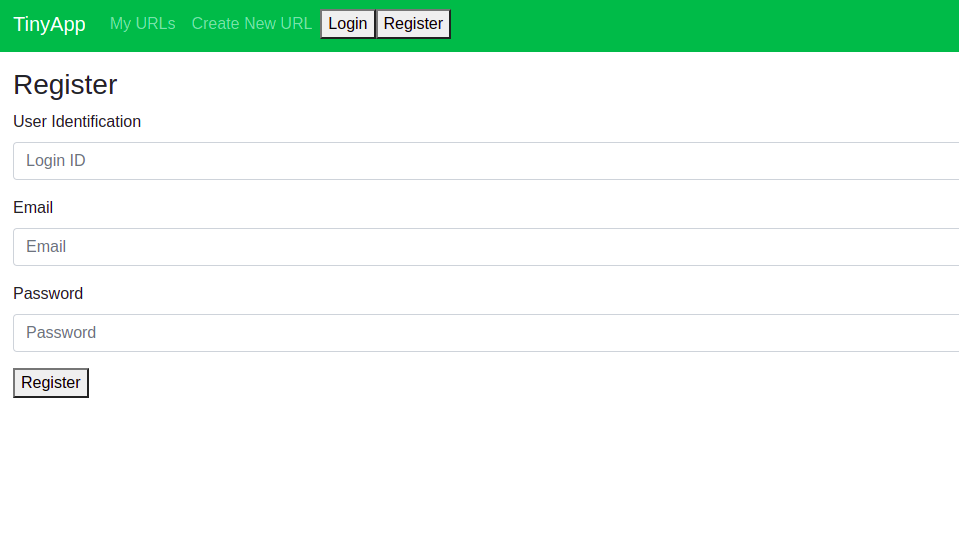
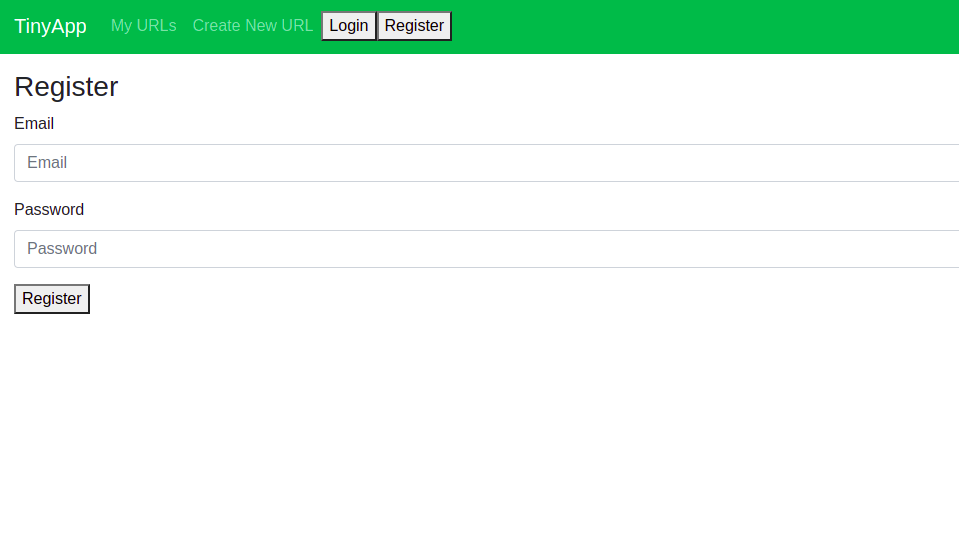
Ready for resubmission upon updating the review  rejection notes

Changed region(s): [[0.0, 0.2082, 1.0, 0.6543], [0.0, 0.0, 1.0, 0.1784], [0.0, 0.684, 0.0907, 0.7435]]

diff --git a/express_server.js b/express_server.js
@@ -21,14 +21,15 @@ const {
 
 const { users, urlDatabase } = require('./helpers/data');
 
-//////////////GET//////////////
+app.get('/', (req, res) => {
+  res.redirect('urls');
+});
 
-////HOME - ALL URLS
 app.get('/urls', (req, res) => {
 
   const user = req.session.user_id;
   const urlDB = getUserURL(user, urlDatabase);
-  //Returns an object of short/long urls for the current loggedin user
+  // Returns an object of short/long urls for the current loggedin user
 
   const templateVars = {
     urls: urlDB,
@@ -39,10 +40,9 @@ app.get('/urls', (req, res) => {
   res.render('urls_index', templateVars);
 });
 
-////NEW
 app.get('/urls/new', (req, res) => {
   const user = req.session.user_id;
-  //Uses the info stored of user from cookieSession
+  // Uses the info stored of user from cookieSession
   const templateVars = {
     urls: urlDatabase,
     users,
@@ -51,13 +51,12 @@ app.get('/urls/new', (req, res) => {
   res.render('urls_new', templateVars);
 });
 
-/////URLS SHOW --- SPECIFIC SHORT URL
 app.get('/urls/:shortURL', (req, res) => {
 
   const user = req.session.user_id;
   if (!user) {
-    //If trying to access link not logged in
-    return res.status(403).send('404 Error: Forbidden');
+    // If trying to access link not logged in
+    return res.status(403).send('404 Error: You do not have permission to edit this link');
   }
 
   const urlDB = getUserURL(user, urlDatabase);
@@ -71,14 +70,12 @@ app.get('/urls/:shortURL', (req, res) => {
   res.render('urls_show', templateVars);
 });
 
-/////TO ACTUAL LONG URL REDIRECT
 app.get('/u/:shortURL', (req, res) => {
   const shortURL = req.params.shortURL;
   const longURL = urlDatabase[shortURL].longURL;
   res.redirect(longURL);
 });
 
-////REGISTER
 app.get('/register', (req, res) => {
   const user = req.session.user_id;
   const templateVars = {
@@ -89,7 +86,6 @@ app.get('/register', (req, res) => {
   res.render('urls_register', templateVars);
 });
 
-/////LOGIN
 app.get('/login', (req, res) => {
   const user = req.session.user_id;
   const templateVars = {
@@ -101,27 +97,24 @@ app.get('/login', (req, res) => {
   res.render('urls_login', templateVars);
 });
 
-///////////////POST/////////////////
-
-//////SUBMIT URL & GENERATE-URL-ID
 app.post('/urls', (req, res) => {
-  //Turns submitted url into random shortURL and redirects
+  // Turns submitted url into random shortURL and redirects
   const shortURL = generateRandomString();
   const longURL = req.body.longURL;
 
   if (!longURL.includes('http://')) {
-    //If longURL does not start with http:// return error
+    // If longURL does not start with http:// return error
     return res.status(403).send('404 Error: Invalid URL input.  Please begin URL with http://');
   }
 
   if (longURL.length < 12) {
-    //If longURL is less than avg url length return error
+    // If longURL is less than avg url length return error
     return res.status(403).send('404 Error: Invalid URL input.  URL not long enough');
   }
 
   const user = req.session.user_id;
   urlDatabase[shortURL] = {
-    //adds new shorturl to user's database
+    // Adds new shorturl to user's database
     longURL: longURL,
     users,
     userID: user
@@ -129,11 +122,10 @@ app.post('/urls', (req, res) => {
   res.redirect(`/urls/${shortURL}`);
 });
 
-//////DELETE URL
 app.post('/urls/:shortURL/delete', (req, res) => {
   const user = req.session.user_id;
   if (!user) {
-    //if attempting to delete a shortURL from curl / not logged in
+    // If attempting to delete a shortURL from curl / not logged in
     return res.redirect('/urls');
   }
 
@@ -142,85 +134,81 @@ app.post('/urls/:shortURL/delete', (req, res) => {
   res.redirect('/urls');
 });
 
-/////UPDATES/EDITS SHORT URL
 app.post('/urls/:shortURL', (req, res) => {
 
   const updatedLongURL = req.body.updatedLongURL;
   const shortURL = req.params.shortURL;
   
   if (!updatedLongURL.includes('http://')) {
-    //If updatedLongURL does not start with http:// return error
+    // If updatedLongURL does not start with http:// return error
     return res.status(403).send('404 Error: Invalid URL input.  Please begin URL with http://');
   }
 
   if (updatedLongURL.length < 12) {
-    //If updatedLongURL is less than avg url length return error
+    // If updatedLongURL is less than avg url length return error
     return res.status(403).send('404 Error: Invalid URL input.  URL not long enough');
   }
 
-  //update the urlDB
+  // Updates the urlDB
   urlDatabase[shortURL].longURL = updatedLongURL;
   res.redirect('/urls');
 });
 
-//// LOGIN --- COOKIES
 app.post('/login', (req, res) => {
 
   const { password, email } = req.body;
-  //uses the email from login to check database if already exists
+  // Uses the email from login to check database if already exists
   const user = getUserByEmail(email, users);
   if (!user) {
     return res.status(403).send('404 Error: Email error');
   }
 
   const hashedPassword = findHashPassword(email, users);
-  //finds hashed password using email to match in database
+  // Finds hashed password using email to match in database
   const passwordCheck = bcrypt.compareSync(password, hashedPassword);
 
   if (passwordCheck === false) {
     return res.status(403).send('404 Error: Password error');
   }
 
-  //confirms user.id and adds to cookieSession
+  // Confirms user.id and adds to cookieSession
   req.session.user_id = user.id;
   res.redirect('/urls');
 });
 
-////LOGOUT
 app.post('/logout', (req, res) => {
   req.session = null;
   res.redirect('/urls');
 });
 
-/////REGISTER
 app.post('/register', (req, res) => {
   const newUser = {
-    id: req.body.userID,
+    id: generateRandomString(),
     email: req.body.email,
     password: req.body.password
   };
 
-  //authenticates the ID, email, and checks for empty inputs
+  // Authenticates the ID, email, and checks for empty inputs
   const {error, data} = authenticateUser(newUser, users);
-  //validates that there is infact input
-  //data kept for potential future user/data usage
+  // Validates that there is infact input
+  // Data kept for potential future user / data usage
   
   if (error) {
     return res.status(400).send(error);
   }
 
-  //Now hash the password
+  // Now hash the password
   const hashedPassword = bcrypt.hashSync(newUser.password, 10);
   newUser.password = hashedPassword;
-  //Update newUser.password to hashed before so not to store text-password
+  // Update newUser.password to hashed before so not to store text-password
 
   users[newUser.id] = newUser;
-  //adds newUser to users
+  // Adds newUser to users
+
   req.session.user_id = newUser.id;
   res.redirect('/urls');
 });
 
-/////////LISTEN///////////
 app.listen(PORT, () => {
   console.log(`Tiny App server listening on port ${PORT}!`);
 });

diff --git a/helpers/data.js b/helpers/data.js
@@ -13,11 +13,8 @@ const users = {
   }
 };
 
-
-/*
-FOR POTENTIAL TESTING PURPOSES
-
-const urlDatabase = {
+// For potential testing purposes
+const testDatabase = {
   "b2xVn2": {
     longURL: "http://www.lighthouselabs.ca",
     userID: "admin"
@@ -28,7 +25,7 @@ const urlDatabase = {
   }
 };
 
-const users = {
+const testUsers = {
   'testUser': {
     id: 'testUser',
     email: 'test@user.ca',
@@ -45,6 +42,5 @@ const users = {
       password: "purple-monkey-dinosaur"
   }
 };
-*/
 
 module.exports = { users, urlDatabase };

diff --git a/helpers/helperFunctions.js b/helpers/helperFunctions.js
@@ -1,4 +1,3 @@
-//FOR POTENTIAL TESTING PURPOSES
 const users = {
   'testUser': {
     id: 'testUser',
@@ -16,7 +15,7 @@ const users = {
       password: "purple-monkey-dinosaur"
   }
 };
-//FOR POTENTIAL TESTING PURPOSES
+
 const urlDatabase = {
   "b2xVn2": {
     longURL: "http://www.lighthouselabs.ca",

diff --git a/test/helpersTest.js b/test/helpersTest.js
@@ -104,10 +104,3 @@ const {
       assert(noInputID.error, expected);
     });
   });
-
-
-  
-
-
-
-  

diff --git a/README.md b/README.md
@@ -4,13 +4,13 @@ TinyApp is a full stack - though less focused on front-end, prioritizing back-en
 
 ## Final Product
 
-!["TinyApp welcome page"](https://github.com/jsarnecki/tinyapp/blob/master/tinyapp-screenshot4.png?raw=true)
+!["TinyApp welcome page"](https://github.com/jsarnecki/tinyapp/blob/master/Screenshots/tinyapp-screenshot4.png?raw=true)
 
-!["TinyApp register page"](https://github.com/jsarnecki/tinyapp/blob/master/tinyapp-screenshot3.png?raw=true)
+!["TinyApp register page"] *to be updated in next commit*
 
-!["TinyApp short url example page"](https://github.com/jsarnecki/tinyapp/blob/master/tinyapp-screenshot2.png?raw=true)
+!["TinyApp short url example page"](https://github.com/jsarnecki/tinyapp/blob/master/Screenshots/tinyapp-screenshot2.png?raw=true)
 
-!["TinyApp 'My URLs' home page"](https://github.com/jsarnecki/tinyapp/blob/master/tinyapp-screenshot1.png?raw=true)
+!["TinyApp 'My URLs' home page"](https://github.com/jsarnecki/tinyapp/blob/master/Screenshots/tinyapp-screenshot1.png?raw=true)
 
 ## Dependencies
 
